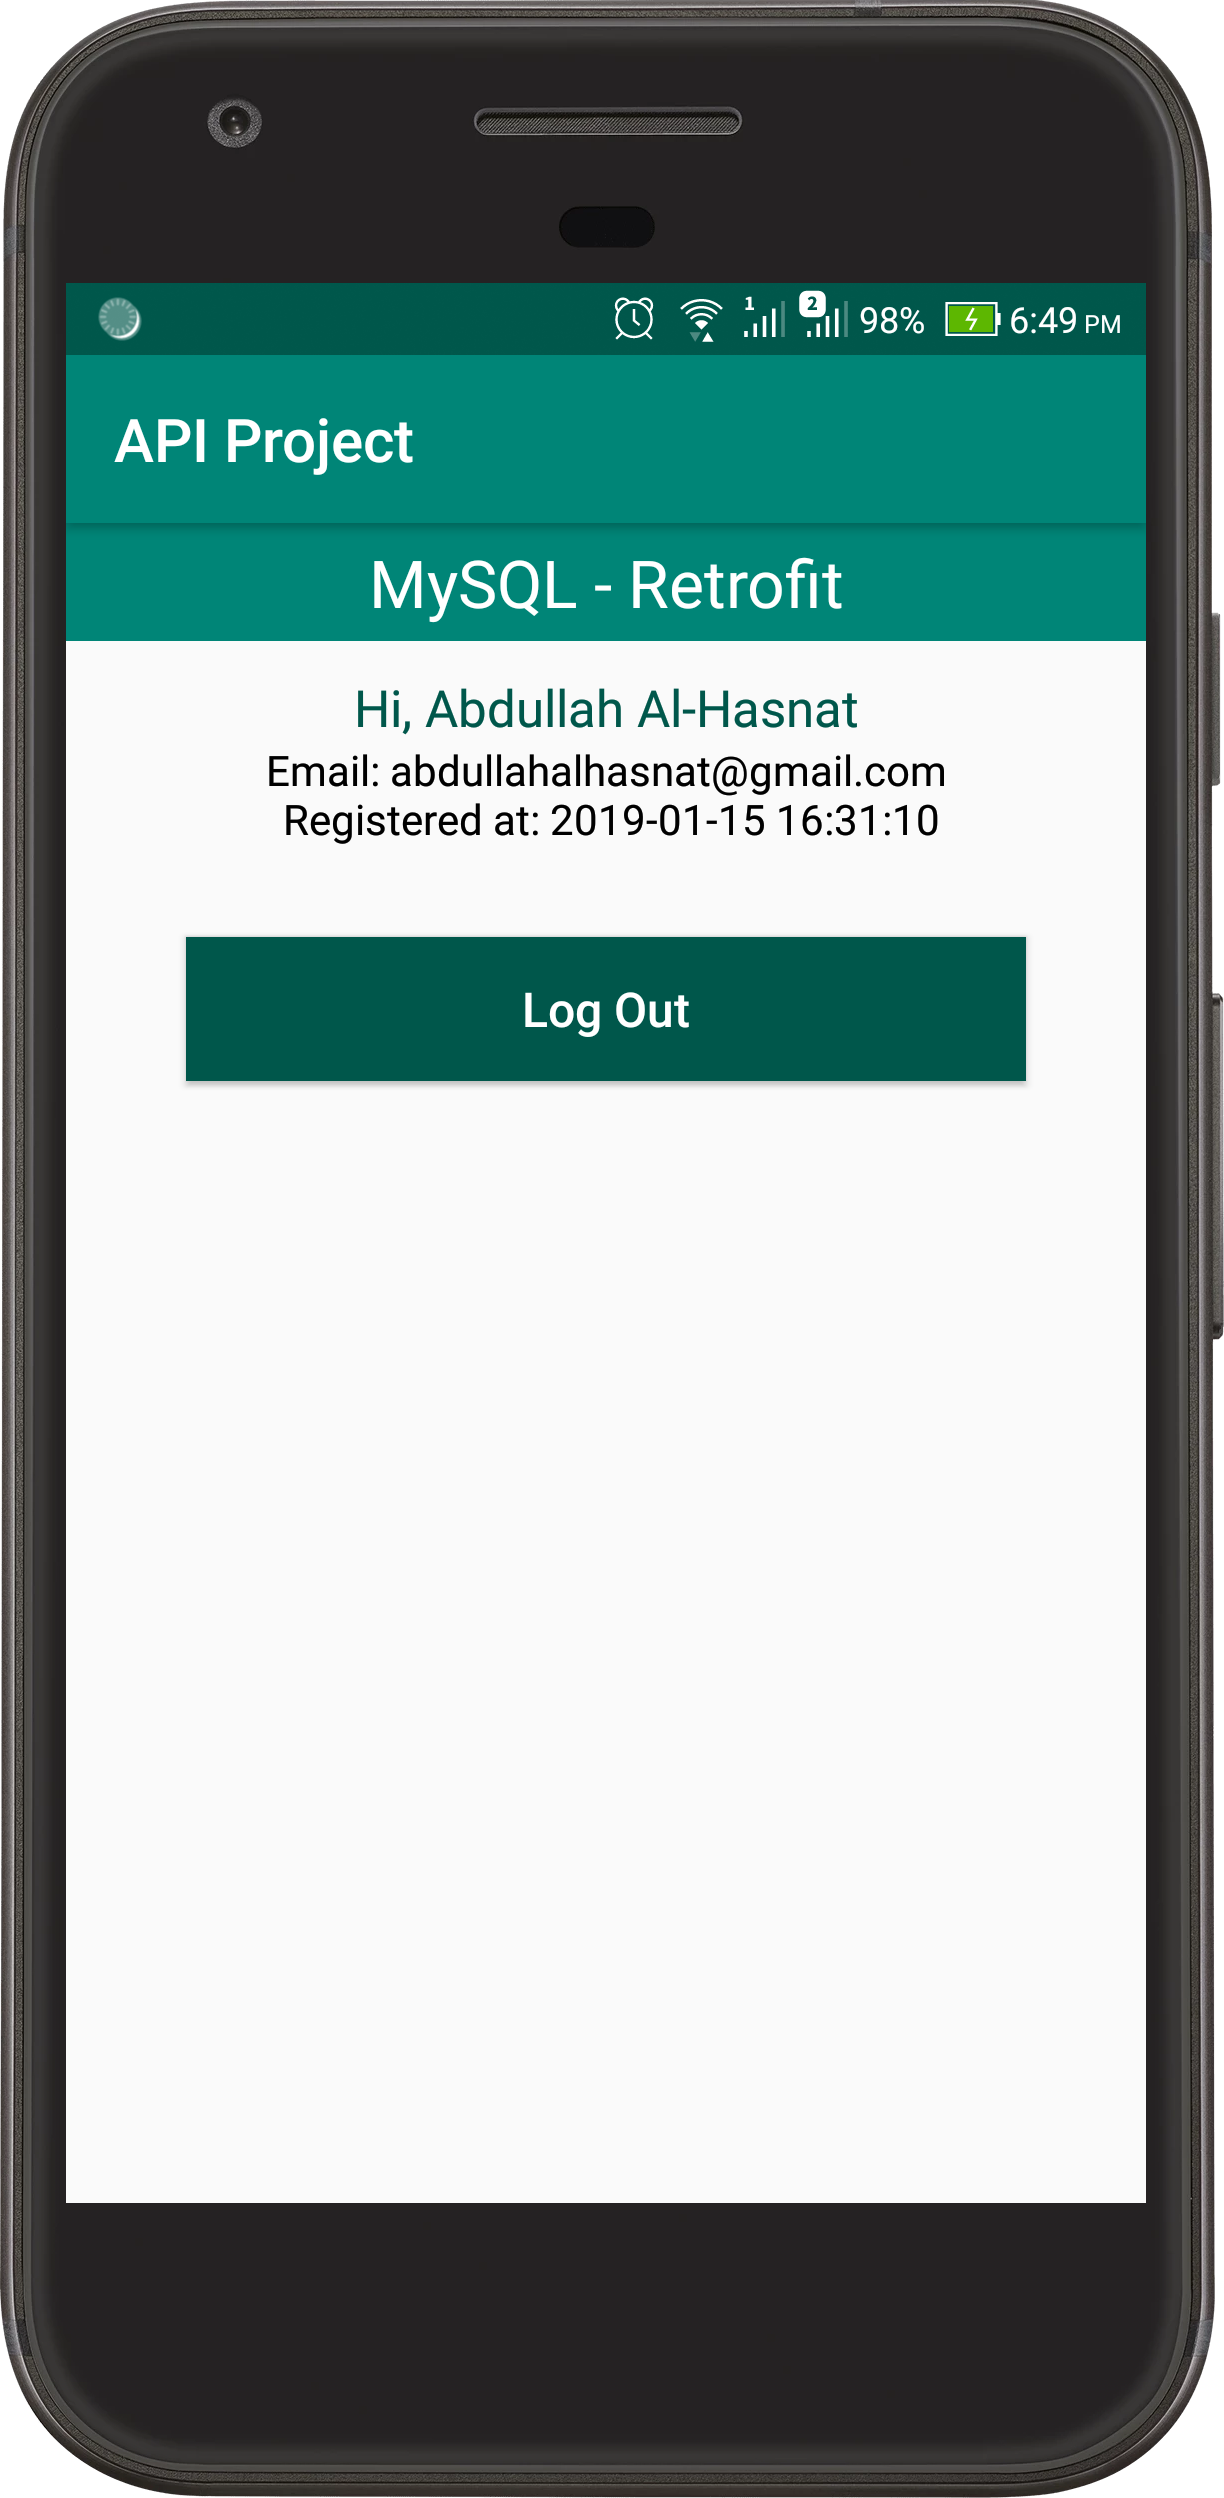
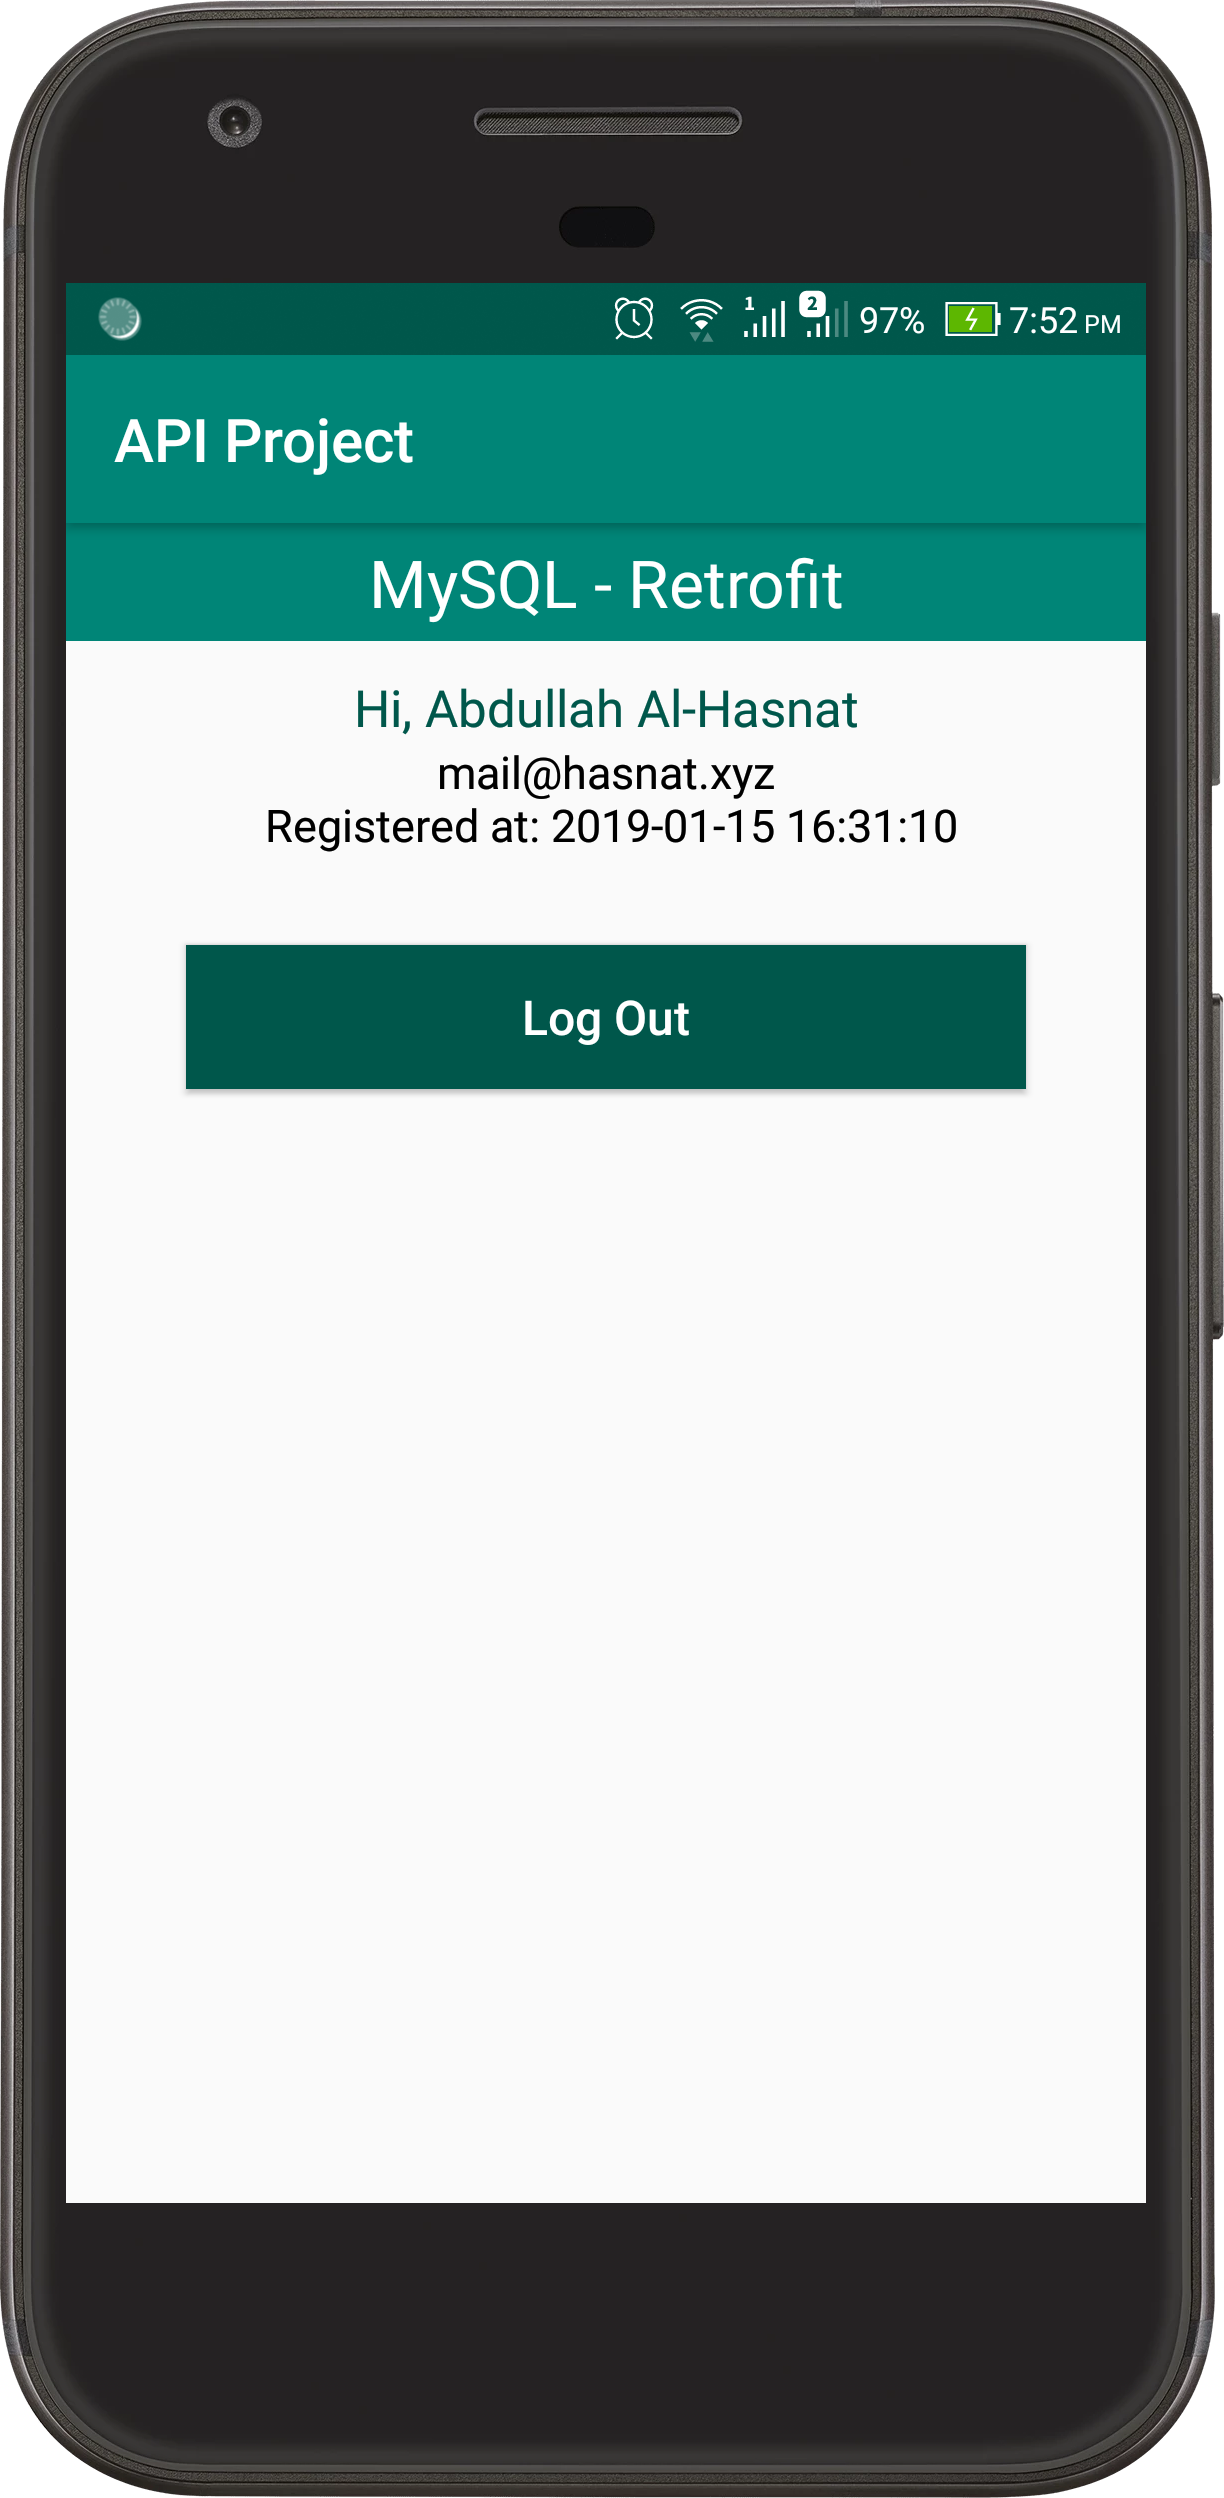
only readme.md file update

Changed region(s): [[0.1552, 0.3747, 0.8382, 0.4371], [0.2173, 0.281, 0.7761, 0.3435], [0.8382, 0.1249, 0.8693, 0.1561]]

diff --git a/app/src/main/java/xyz/hasnat/demoapi/Fragments/ProfileFragment.java b/app/src/main/java/xyz/hasnat/demoapi/Fragments/ProfileFragment.java
@@ -46,7 +46,7 @@ public class ProfileFragment extends Fragment {
 
         email = view.findViewById(R.id.email);
 
-        String Email_cDate = "Email: " + MainActivity.appPreference.getDisplayEmail()
+        String Email_cDate = MainActivity.appPreference.getDisplayEmail()
                 +"\n Registered at: " + MainActivity.appPreference.getCreDate();
         email.setText(Email_cDate);
         //Log.e("created_at: ", c_date);

diff --git a/README.md b/README.md
@@ -1,13 +1,14 @@
 # *Login - Registration through API (PHP-MySQL)*
 
-* Using Fragments instead of Activity  
+* Using Fragments instead of Activity
 * Retrofit2, Gson
 * Using SharedPreference for login status
 * Making API with PHP, using MySQL Database
 
+[APIs](https://github.com/TheHasnatBD/REST-API--Android/blob/master/files/api/)
 For testing [Download App](https://github.com/TheHasnatBD/REST-API--Android/blob/master/files/app.zip)
 #### Some Screenshots of this app
  Login                                   | Register                                    | Home (after login)                        		                    
 :---------------------------------------:|:-------------------------------------------:|:-------------------------------------------:
- <img src="files/login.png" width="200"> | <img src="files/register.png" width="200">  | <img src="files/profile.png" width="200"> 
+ <img src="files/login.png" width="200"> | <img src="files/reg.png" width="200">  | <img src="files/profile.png" width="200"> 
 
